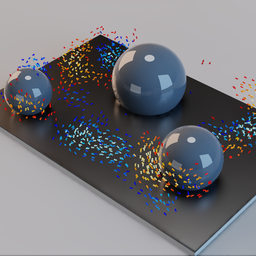
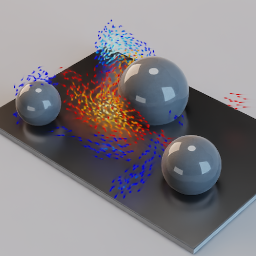
Tweaked glow in flocking example

diff --git a/exts/omni.warp/omni/warp/nodes/_impl/OgnSamplePrimFlocking.py b/exts/omni.warp/omni/warp/nodes/_impl/OgnSamplePrimFlocking.py
@@ -260,8 +260,8 @@ def boids(
     boids[tid] = boid
 
     # update glow as an exponentially weighted moving average to keep it smooth
-    glow = wp.min(1.0, float(num_neighbors) / 25.0)
-    glow_alpha = 0.25
+    glow = wp.min(1.0, float(num_neighbors) / 40.0)
+    glow_alpha = 0.5
     glows[tid] = glow_alpha * glow + (1.0 - glow_alpha) * glows[tid]
 
 
@@ -358,7 +358,7 @@ class InternalState:
         max_mass = 2.0
         npboids["mass"][:] = min_mass + (max_mass - min_mass) * np.random.rand(num_boids)
 
-        # we can have up to 3 groups currently, but that can be easily extended
+        # we can have up to 2 groups currently, but that can be easily extended
         self.num_groups = 2
         npboids["group"] = np.random.randint(self.num_groups, size=num_boids)
 
@@ -378,7 +378,7 @@ class InternalState:
             biases[i, i] = 1.0
 
         world = World()
-        world.lower = (-120, 20, -90)
+        world.lower = (-120, 10, -90)
         world.upper = (120, 40, 90)
         world.grid = self.grid.id
         world.seed = 0
@@ -391,9 +391,8 @@ class InternalState:
 
         # color ramps per group
         color_ramps = [
-            [[0.3, 0.0, 0.0], [1.0, 0.0, 0.0], [1.0, 0.5, 0.0], [1.0, 1.0, 0.5]],
-            [[0.0, 0.0, 0.3], [0.0, 0.0, 1.0], [0.0, 0.5, 1.0], [0.5, 1.0, 1.0]],
-            [[0.0, 0.3, 0.0], [0.0, 1.0, 0.0], [0.0, 1.0, 0.5], [0.8, 1.0, 0.8]],
+            [[0.5, 0.0, 0.0], [1.0, 0.0, 0.0], [1.0, 0.5, 0.0], [1.0, 1.0, 0.5]],
+            [[0.0, 0.0, 0.5], [0.0, 0.0, 1.0], [0.0, 0.5, 1.0], [0.5, 1.0, 1.0]],
         ]
 
         # copy of positions used for updating the spatial grid
